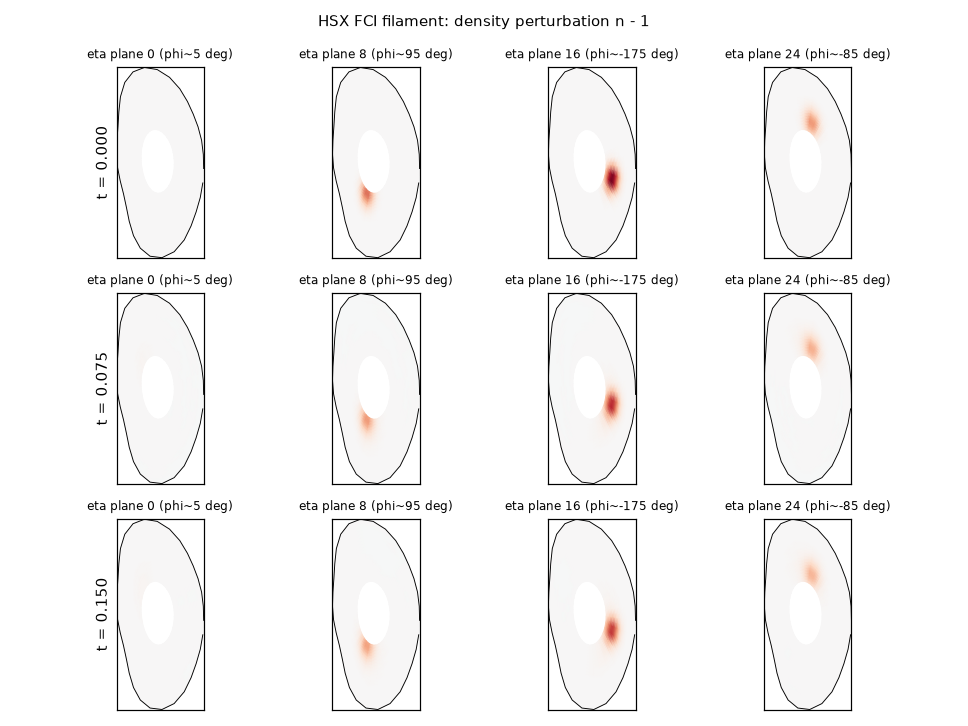
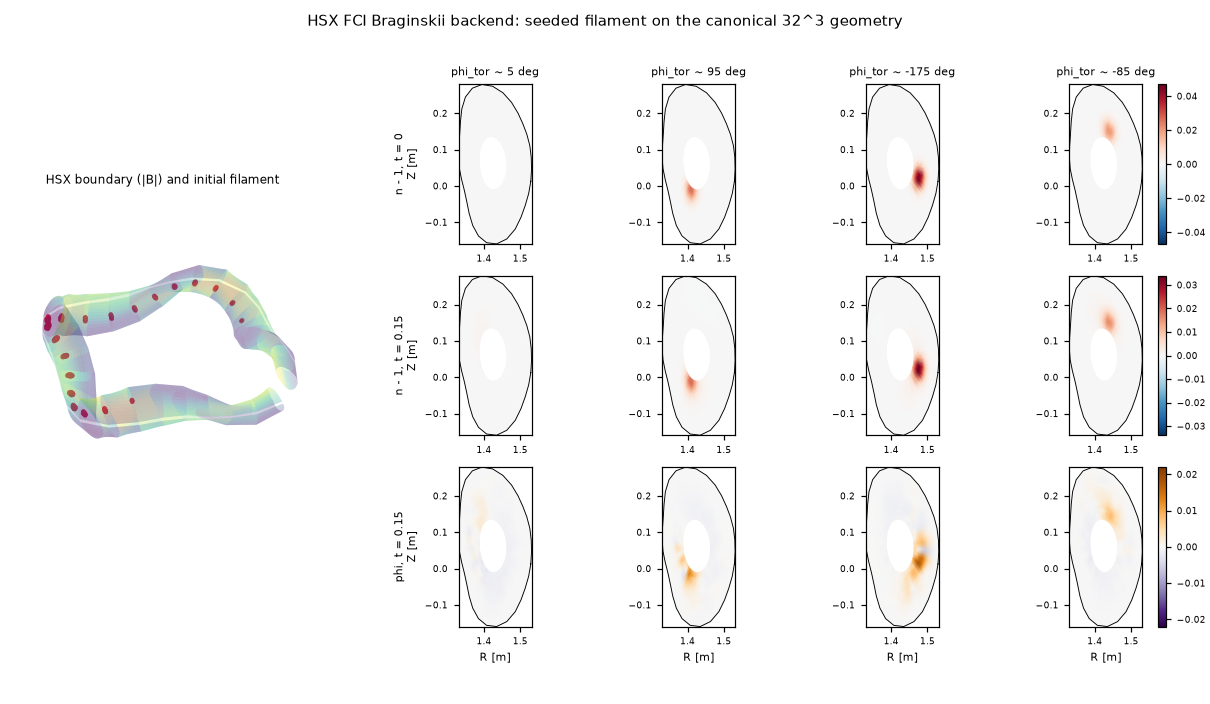
HSX showcase figure: 3-D context, physical axes, colour bars and the potential
Adds the HSX boundary coloured by |B| with the seeded filament, R-Z axes in
metres, per-row colour bars, and phi at t = 0.15 (the density barely moves at
rho* = 5e-4; the potential dipole shows the dynamics). The movie shows n - 1
and phi on fixed scales. Rendered twice: byte-identical.

diff --git a/examples/stellarator/hsx_fci_blob_render.py b/examples/stellarator/hsx_fci_blob_render.py
@@ -1,4 +1,4 @@
-"""Render the HSX FCI blob: R-Z cross-sections of n - 1 at several eta planes.
+"""Render the HSX FCI filament: 3-D context plus R-Z cross-sections.
 
 Usage: python examples/stellarator/hsx_fci_blob_render.py history.npz [outdir]
 where history.npz is written by simulate_hsx_blob.py (--save-every 10).
@@ -14,53 +14,82 @@ import matplotlib.pyplot as plt  # noqa: E402
 import numpy as np  # noqa: E402
 from matplotlib.animation import FuncAnimation, PillowWriter  # noqa: E402
 
-plt.rcParams["svg.hashsalt"] = "drbx"
 data = np.load(sys.argv[1])
 out = Path(sys.argv[2] if len(sys.argv) > 2 else "docs/media")
-xyz, times = data["cartesian"], data["times"]
+xyz, times, active = data["cartesian"], data["times"], data["owner_active"]
 dn = data["density"].astype(np.float64) - 1.0
-active = data["owner_active"]
+phi = data["phi"].astype(np.float64)
 R, Z = np.hypot(xyz[..., 0], xyz[..., 1]), xyz[..., 2]
 planes = np.linspace(0, dn.shape[3], 4, endpoint=False).astype(int)
-vmax = float(np.abs(dn).max())
+last = len(times) - 1
 
 
 def wrap(a):  # close the periodic second logical coordinate
     return np.concatenate([a, a[:, :1]], axis=1)
 
 
-def draw(axes, it):
-    for ax, k in zip(axes, planes):
-        ax.clear()
-        field = np.where(active[:, :, k], dn[it, :, :, k], np.nan)
-        ax.pcolormesh(wrap(R[:, :, k]), wrap(Z[:, :, k]), wrap(field),
-                      cmap="RdBu_r", vmin=-vmax, vmax=vmax, shading="gouraud")
-        ax.plot(R[-1, :, k], Z[-1, :, k], "k-", lw=0.6)
-        ax.set_aspect("equal")
-        ax.set_xticks([])
-        ax.set_yticks([])
-        phi = np.degrees(np.arctan2(xyz[0, 0, k, 1], xyz[0, 0, k, 0]))
-        ax.set_title(f"eta plane {k} (phi~{phi:.0f} deg)", fontsize=8)
+def section(ax, field, k, vmax, cmap):
+    masked = np.where(active[:, :, k], field[:, :, k], np.nan)
+    mesh = ax.pcolormesh(wrap(R[:, :, k]), wrap(Z[:, :, k]), wrap(masked),
+                         cmap=cmap, vmin=-vmax, vmax=vmax, shading="gouraud")
+    ax.plot(np.append(R[-1, :, k], R[-1, 0, k]), np.append(Z[-1, :, k], Z[-1, 0, k]), "k-", lw=0.6)
+    ax.set_aspect("equal")
+    ax.tick_params(labelsize=6)
+    return mesh
 
 
-shown = [0, len(times) // 2, len(times) - 1]
-fig, axs = plt.subplots(3, len(planes), figsize=(2.2 * len(planes), 6.6), dpi=110)
-for row, it in zip(axs, shown):
-    draw(row, it)
-    row[0].set_ylabel(f"t = {times[it]:.3f}")
-fig.suptitle("HSX FCI filament: density perturbation n - 1", fontsize=10)
-fig.tight_layout()
+def toroidal_angle(k):
+    return np.degrees(np.arctan2(xyz[0, 0, k, 1], xyz[0, 0, k, 0]))
+
+
+# Figure: 3-D context (boundary coloured by |B|, filament points) + sections.
+fig = plt.figure(figsize=(11.0, 6.4), dpi=110)
+grid = fig.add_gridspec(3, 5, width_ratios=[2.2, 1, 1, 1, 1], left=0.0, right=0.97, wspace=0.35)
+ax3 = fig.add_subplot(grid[:, 0], projection="3d")
+edge = xyz[-1]
+bmag = data["Bmag"][-1]
+ax3.plot_surface(edge[..., 0], edge[..., 1], edge[..., 2], rstride=1, cstride=1, linewidth=0,
+                 facecolors=plt.cm.viridis((bmag - bmag.min()) / np.ptp(bmag)), alpha=0.25, shade=False)
+blob = dn[0] > 0.3 * dn[0].max()
+ax3.scatter(xyz[..., 0][blob], xyz[..., 1][blob], xyz[..., 2][blob], s=4, c="crimson")
+ax3.set_title("HSX boundary (|B|) and initial filament", fontsize=8)
+ax3.set_axis_off()
+ax3.view_init(elev=35, azim=-60)
+span = np.ptp(edge.reshape(-1, 3), axis=0)
+ax3.set_box_aspect(span, zoom=1.35)
+rows = [("n - 1, t = 0", dn[0], "RdBu_r"), (f"n - 1, t = {times[last]:.2f}", dn[last], "RdBu_r"),
+        (f"phi, t = {times[last]:.2f}", phi[last], "PuOr_r")]
+for r, (label, field, cmap) in enumerate(rows):
+    vmax = float(np.nanmax(np.abs(np.where(active, field, np.nan))))
+    for c, k in enumerate(planes):
+        ax = fig.add_subplot(grid[r, c + 1])
+        mesh = section(ax, field, k, vmax, cmap)
+        if r == 0:
+            ax.set_title(f"phi_tor ~ {toroidal_angle(k):.0f} deg", fontsize=7)
+        if c == 0:
+            ax.set_ylabel(f"{label}\nZ [m]", fontsize=7)
+        if r == 2:
+            ax.set_xlabel("R [m]", fontsize=7)
+    fig.colorbar(mesh, ax=fig.axes[-4:], fraction=0.02, pad=0.02).ax.tick_params(labelsize=6)
+fig.suptitle("HSX FCI Braginskii backend: seeded filament on the canonical 32^3 geometry", fontsize=10)
 out.mkdir(parents=True, exist_ok=True)
 fig.savefig(out / "hsx_fci_blob.png", metadata={"Software": None})
 
-fig, axs = plt.subplots(1, len(planes), figsize=(2.2 * len(planes), 2.6), dpi=80)
+# Movie: n - 1 and phi on the same four planes, fixed colour scales.
+fig, axs = plt.subplots(2, len(planes), figsize=(2.2 * len(planes), 4.6), dpi=80)
+scales = [float(np.abs(dn).max()), float(np.abs(phi).max())]
 
 
 def frame(it):
-    draw(axs, it)
-    fig.suptitle(f"HSX FCI filament, n - 1, t = {times[it]:.3f}", fontsize=9)
+    for row, (field, cmap, vmax) in zip(axs, [(dn, "RdBu_r", scales[0]), (phi, "PuOr_r", scales[1])]):
+        for ax, k in zip(row, planes):
+            ax.clear()
+            section(ax, field[it], k, vmax, cmap)
+            ax.set_xticks([])
+            ax.set_yticks([])
+    axs[0, 0].set_ylabel("n - 1", fontsize=8)
+    axs[1, 0].set_ylabel("phi", fontsize=8)
+    fig.suptitle(f"HSX FCI filament, t = {times[it]:.3f}", fontsize=9)
 
 
-FuncAnimation(fig, frame, frames=len(times)).save(
-    out / "hsx_fci_blob.gif", writer=PillowWriter(fps=5)
-)
+FuncAnimation(fig, frame, frames=len(times)).save(out / "hsx_fci_blob.gif", writer=PillowWriter(fps=5))
